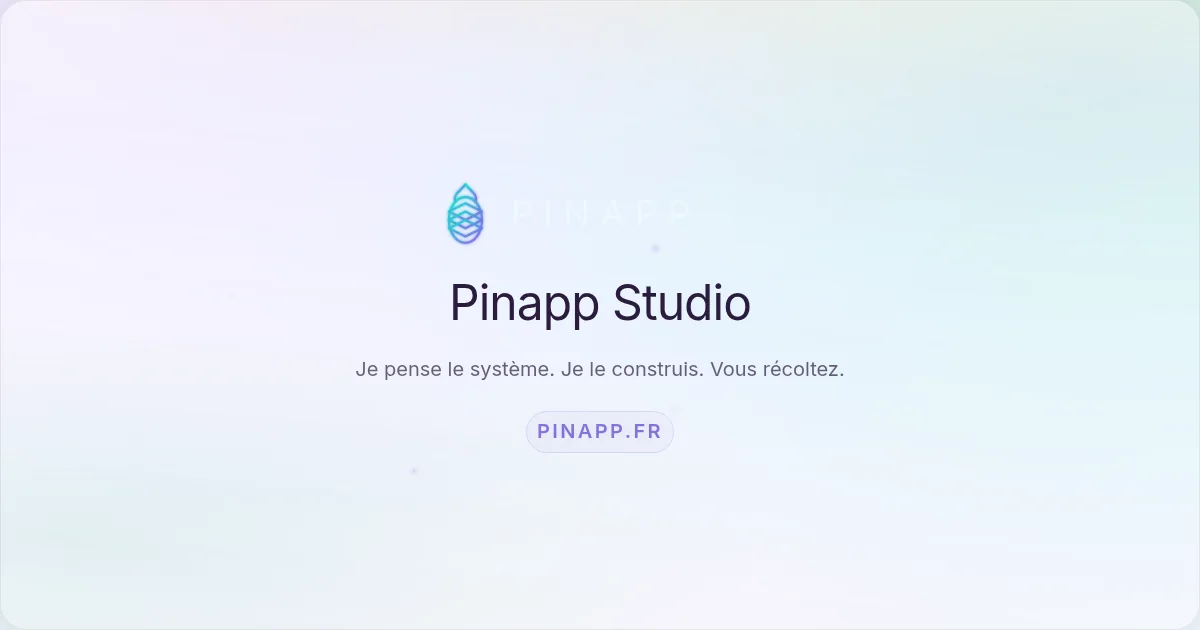
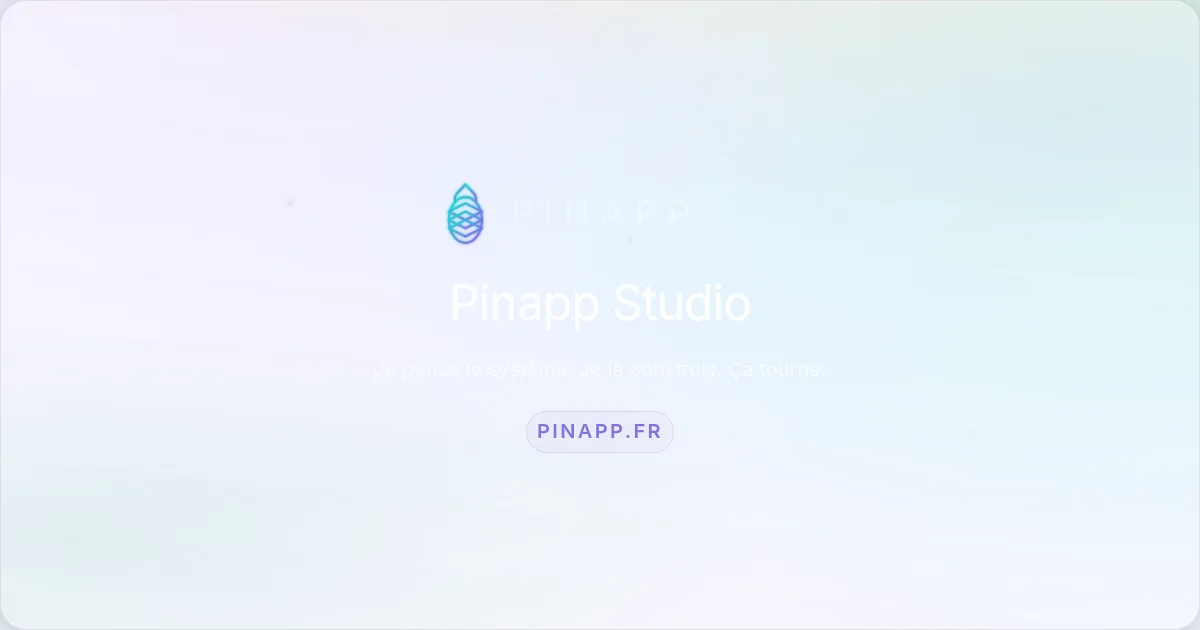
Fix: remove 'Vous récoltez' from OG image

Changed region(s): [[0.37, 0.4524, 0.6475, 0.5127], [0.3083, 0.573, 0.7092, 0.6032]]

diff --git a/og-image.html b/og-image.html
@@ -121,7 +121,7 @@
         height="88"
         decoding="async" />
       <h1>Pinapp Studio</h1>
-      <p>Je pense le système. Je le construis. Vous récoltez.</p>
+      <p>Je pense le système. Je le construis. Ça tourne.</p>
       <p class="label" style="opacity: 0.8">pinapp.fr</p>
     </div>
     <script src="assets/js/pandora-night.js" defer></script>
